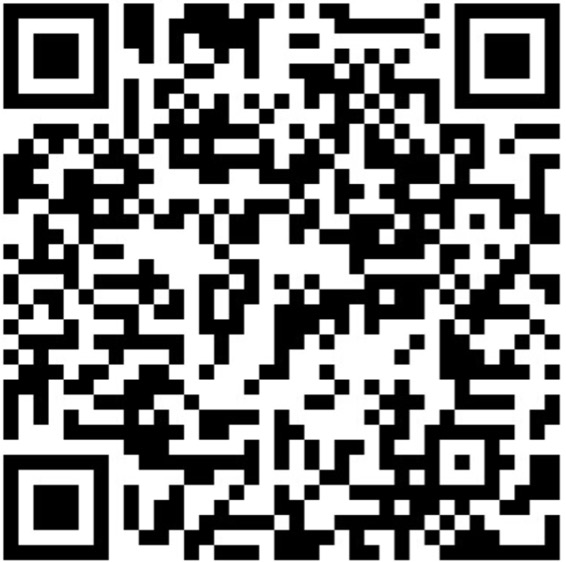
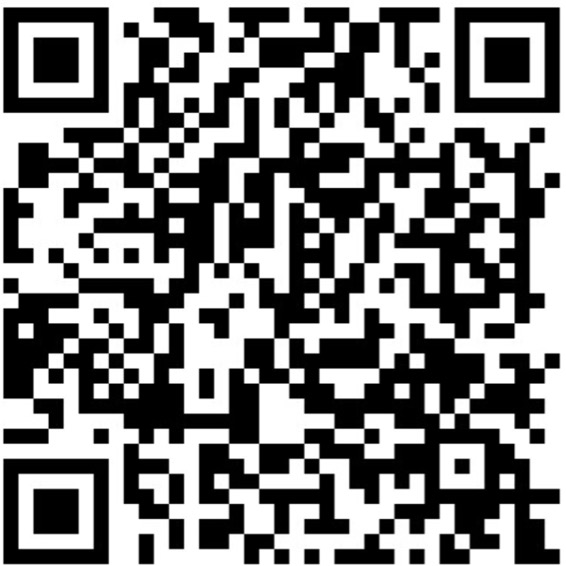
添加公众号

diff --git a/owllook/templates/novels/admin_bookmarks.html b/owllook/templates/novels/admin_bookmarks.html
@@ -12,37 +12,38 @@
     {% if is_bookmark %}
     <table class="table table-striped table-hover" style="margin-bottom: 50px;">
         <thead>
-            <tr align="center">
-                <th>小说名</th>
-                <th>源目录</th>
-                <th>章节名</th>
-                <th>添加时间</th>
-                <th>操作</th>
-            </tr>
+        <tr align="center">
+            <th>小说名</th>
+            <th>源目录</th>
+            <th>章节名</th>
+            <th>添加时间</th>
+            <th>操作</th>
+        </tr>
         </thead>
         <tbody>
-            {%for item in result%}
-            <tr>
-                <td>
-                    <a href="/search?wd={{item.novels_name}}" target="_blank">{{item.novels_name}}</a>
-                </td>
-                <td>
-                    <a href="/chapter?url={{item.chapter_url}}&novels_name={{item.novels_name}}" target="_blank">查看{{item.novels_name}}源目录</a>
-                </td>
-                <td>
-                    <a href="{{item.bookmark}}&from_bookmarks" target="_blank">{{item.chapter_name}}</a>
-                </td>
-                <td>{{item.add_time}}</td>
-                <th class="del-bookmark">
-                    <a class="bookmark_url" data-value="{{item.bookmark}}" href="javascript:;">删除</a>
-                </th>
-            </tr>
-            {%endfor%}
+        {%for item in result%}
+        <tr>
+            <td>
+                <a href="/search?wd={{item.novels_name}}" target="_blank">{{item.novels_name}}</a>
+            </td>
+            <td>
+                <a href="/chapter?url={{item.chapter_url}}&novels_name={{item.novels_name}}" target="_blank">查看{{item.novels_name}}源目录</a>
+            </td>
+            <td>
+                <a href="{{item.bookmark}}&from_bookmarks" target="_blank">{{item.chapter_name}}</a>
+            </td>
+            <td>{{item.add_time}}</td>
+            <th class="del-bookmark">
+                <a class="bookmark_url" data-value="{{item.bookmark}}" href="javascript:;">删除</a>
+            </th>
+        </tr>
+        {%endfor%}
         </tbody>
     </table>
     {% else %}
     <center>暂无书签数据</center>
     {% endif %}
+    {% include "lcxs_show.html" %}
 
 </div>
 {% endblock %} {% block script %}

diff --git a/owllook/templates/novels/admin_lcxs.html b/owllook/templates/novels/admin_lcxs.html
@@ -1,0 +1,31 @@
+{% extends "main.html" %}
+
+{% block header %}
+<title>关注 - 粮草小说</title>
+<link rel="stylesheet" href="static/novels/css/result.css">
+{% endblock %}
+
+{% block content %}
+{% include "search_bar.html" %}
+<div class="container">
+    <h3>公众号 - 粮草小说</h3>
+    <table class="table table-striped table-hover" style="margin-bottom: 50px;">
+        <thead>
+        <tr align="center">
+            <th>#</th>
+            <th>名称</th>
+            <th>日期</th>
+        </tr>
+        </thead>
+        <tbody>
+        <tr>
+            <td>1</td>
+            <td>
+                <a href="https://mp.weixin.qq.com/s?__biz=MzUxMTcxMTk5Nw==&mid=2247483663&idx=1&sn=dfc3567ec7ed35bab39ee0e3dbe3f236&chksm=f96ece9dce19478be084c0149d8c5357064be7b96c06479241608a19ab37b56a18129899c28e#rd" target="_blank">如何优雅地玩转粮草小说？ - 左下角扫一扫关注</a>
+            </td>
+            <td>2018-03-10</td>
+        </tr>
+        </tbody>
+    </table>
+</div>
+{% endblock %}

diff --git a/owllook/templates/novels/index.html b/owllook/templates/novels/index.html
@@ -7,12 +7,12 @@
 
 {% block content %}
 <div class="alert alert-warning center-block">
-<p class="close" style="position: absolute;right: 10px;" data-dismiss="alert">
-&times;
-</p>
-<p style="text-align: center">
-<strong>欢迎关注公众号 粮草小说 有趣的功能等你体验：) </strong>
-</p>
+    <p class="close" style="position: absolute;right: 10px;" data-dismiss="alert">
+        &times;
+    </p>
+    <p style="text-align: center">
+        <strong>欢迎关注公众号 粮草小说 有趣的功能等你体验：) </strong>
+    </p>
 </div>
 <div class="header">
     <a target="_blank" href="https://github.com/howie6879/owllook"><img
@@ -46,5 +46,6 @@
         {%endfor%}
         <a target="_blank" href="/md"><span class="label label-primary" style="background: #d4507d">更多</span></a>
     </div>
+    {% include "lcxs_show.html" %}
 </div>
 {% endblock %}

diff --git a/owllook/templates/novels/login.html b/owllook/templates/novels/login.html
@@ -22,6 +22,12 @@
             </a>
         </li>
         <li>
+            <a href="/admin/lcxs">
+                <span class="glyphicon glyphicon-th-list" aria-hidden="true"></span>
+                <span class="personal-basic">粮草小说</span>
+            </a>
+        </li>
+        <!--<li>-->
             <!--<a href="">-->
                 <!--<span class="glyphicon glyphicon-list-alt" aria-hidden="true"></span>-->
                 <!--<span class="personal-basic">我的书单</span>-->

diff --git a/owllook/templates/novels/lcxs_show.html b/owllook/templates/novels/lcxs_show.html
@@ -1,0 +1,10 @@
+<style>
+    @media (max-width: 767px) {
+        img.lcxs_show {
+            display: none;
+        }
+    }
+</style>
+<img src="static/novels/img/lcxs_show.jpg"
+     style="width:180px;height:180px;position: fixed;left: 20px;bottom: 20px;"
+     class="img-responsive lcxs_show" alt="粮草小说">

diff --git a/owllook/templates/novels/content.html b/owllook/templates/novels/content.html
@@ -106,6 +106,7 @@
             <span class="glyphicon glyphicon-menu-down" aria-hidden="true"></span>
         </div>
     </div>
+    {% include "lcxs_show.html" %}
     <!--{% include "comment.html" %}-->
 </div>
 {% endblock %}

diff --git a/owllook/templates/novels/admin_books.html b/owllook/templates/novels/admin_books.html
@@ -47,6 +47,7 @@
     {% else %}
     <center>书架暂无数据</center>
     {% endif %}
+    {% include "lcxs_show.html" %}
 
 </div>
 {% endblock %}

diff --git a/owllook/templates/novels/similar_user.html b/owllook/templates/novels/similar_user.html
@@ -39,6 +39,7 @@
     {% else %}
     <center>暂无相似书友</center>
     {% endif %}
+    {% include "lcxs_show.html" %}
 
 </div>
 {% endblock %}

diff --git a/owllook/spiders/qidian_novel_info.py b/owllook/spiders/qidian_novel_info.py
@@ -95,6 +95,8 @@ class QidianSpider(Spider):
 
 
 if __name__ == '__main__':
+    import random
+
     # 其他多item示例：https://gist.github.com/howie6879/3ef4168159e5047d42d86cb7fb706a2f
     QidianSpider.start_urls = ['http://book.qidian.com/info/1004608738', 'http://book.qidian.com/info/3602691',
                                'http://book.qidian.com/info/3347595', 'http://book.qidian.com/info/1887208']
@@ -106,8 +108,8 @@ if __name__ == '__main__':
         all_urls = []
         all_novels_info_col = QidianSpider.all_novels_info_col
         for each in QidianSpider.all_novels_col.find():
-            if all_novels_info_col.find_one({'name': each['novel_name']}) is None:
-                all_urls.append(each['novel_url'])
+            all_urls.append(each['novel_url'])
+        random.shuffle(all_urls)
 
         QidianSpider.start_urls = all_urls
         QidianSpider.start()

diff --git a/owllook/views/admin_blueprint.py b/owllook/views/admin_blueprint.py
@@ -203,3 +203,14 @@ async def books(request):
             return redirect('/')
     else:
         return redirect('/')
+
+
+@admin_bp.route("/lcxs")
+async def similar_user(request):
+    user = request['session'].get('user', None)
+    if user:
+        return template('admin_lcxs.html',
+                        is_login=1,
+                        user=user)
+    else:
+        return redirect('/')
